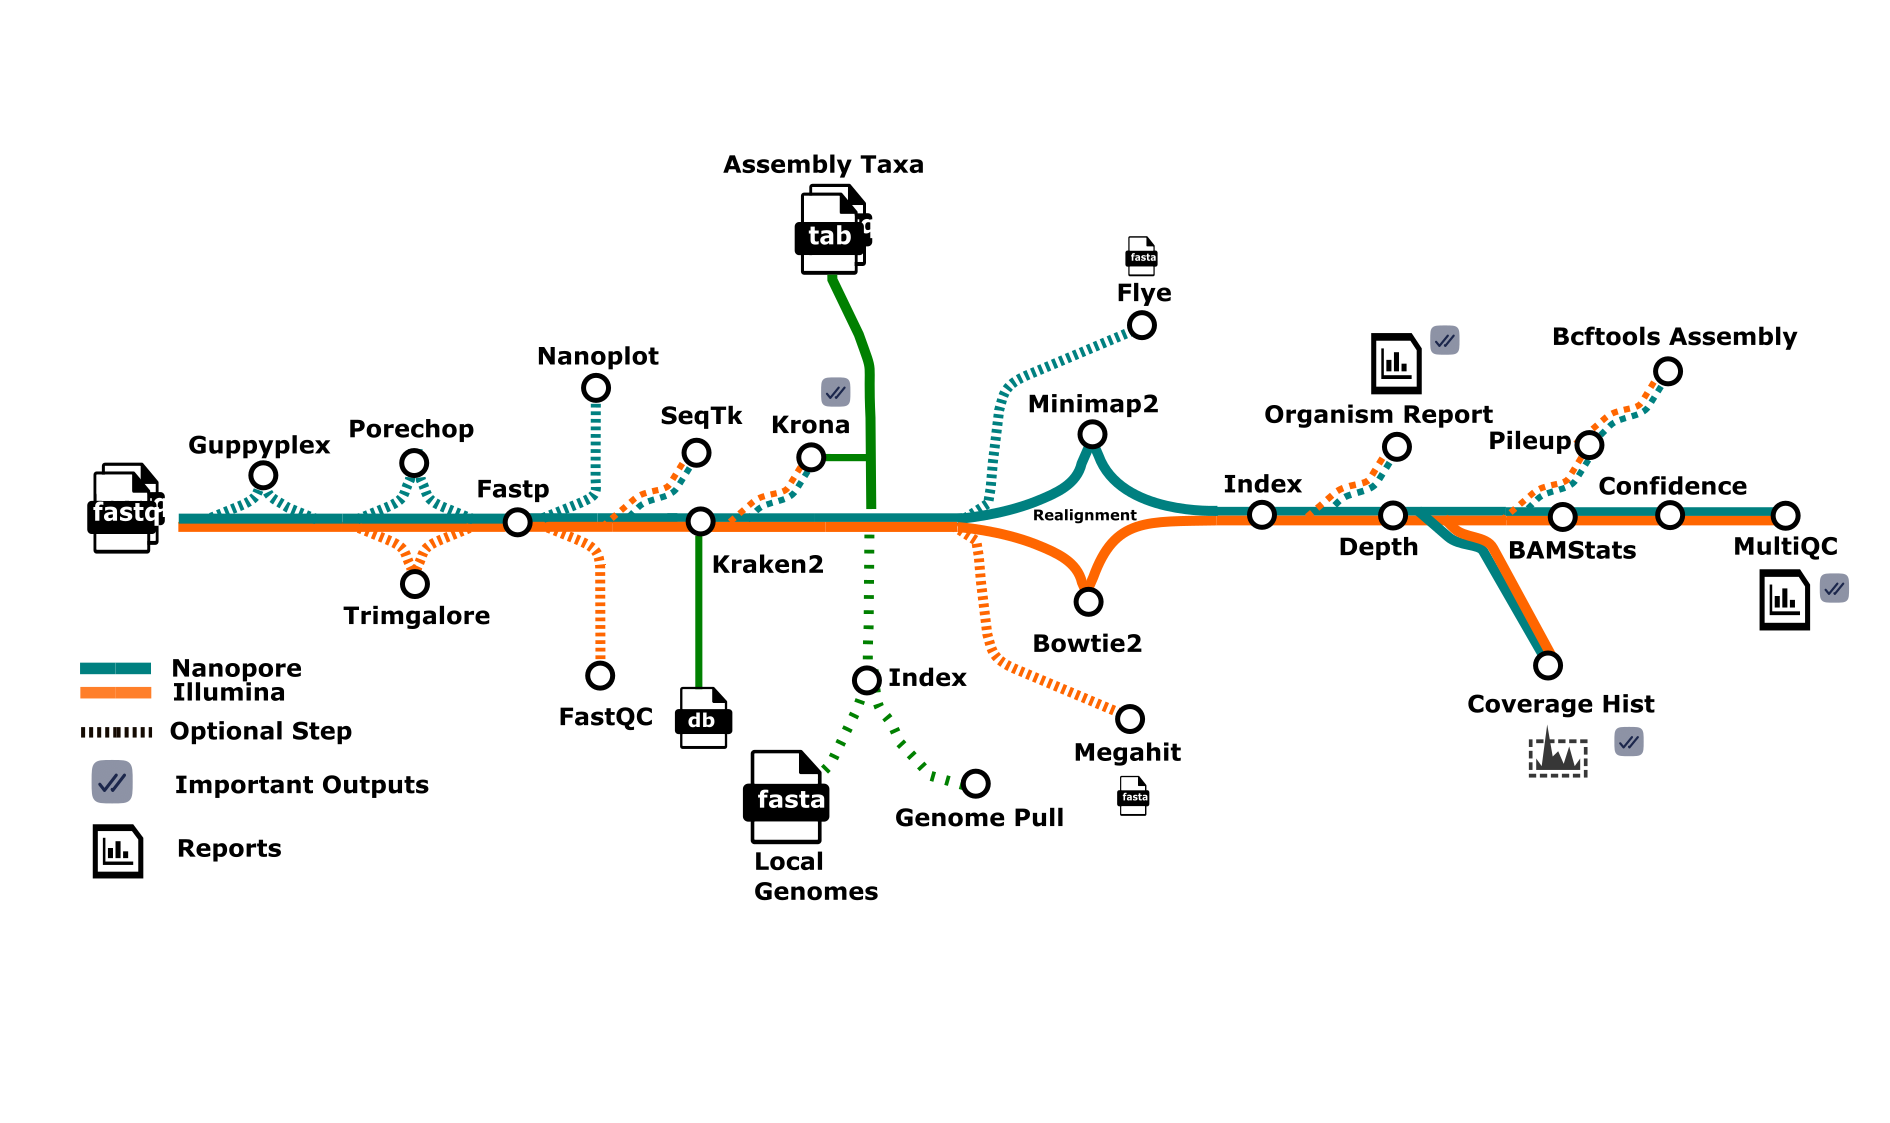
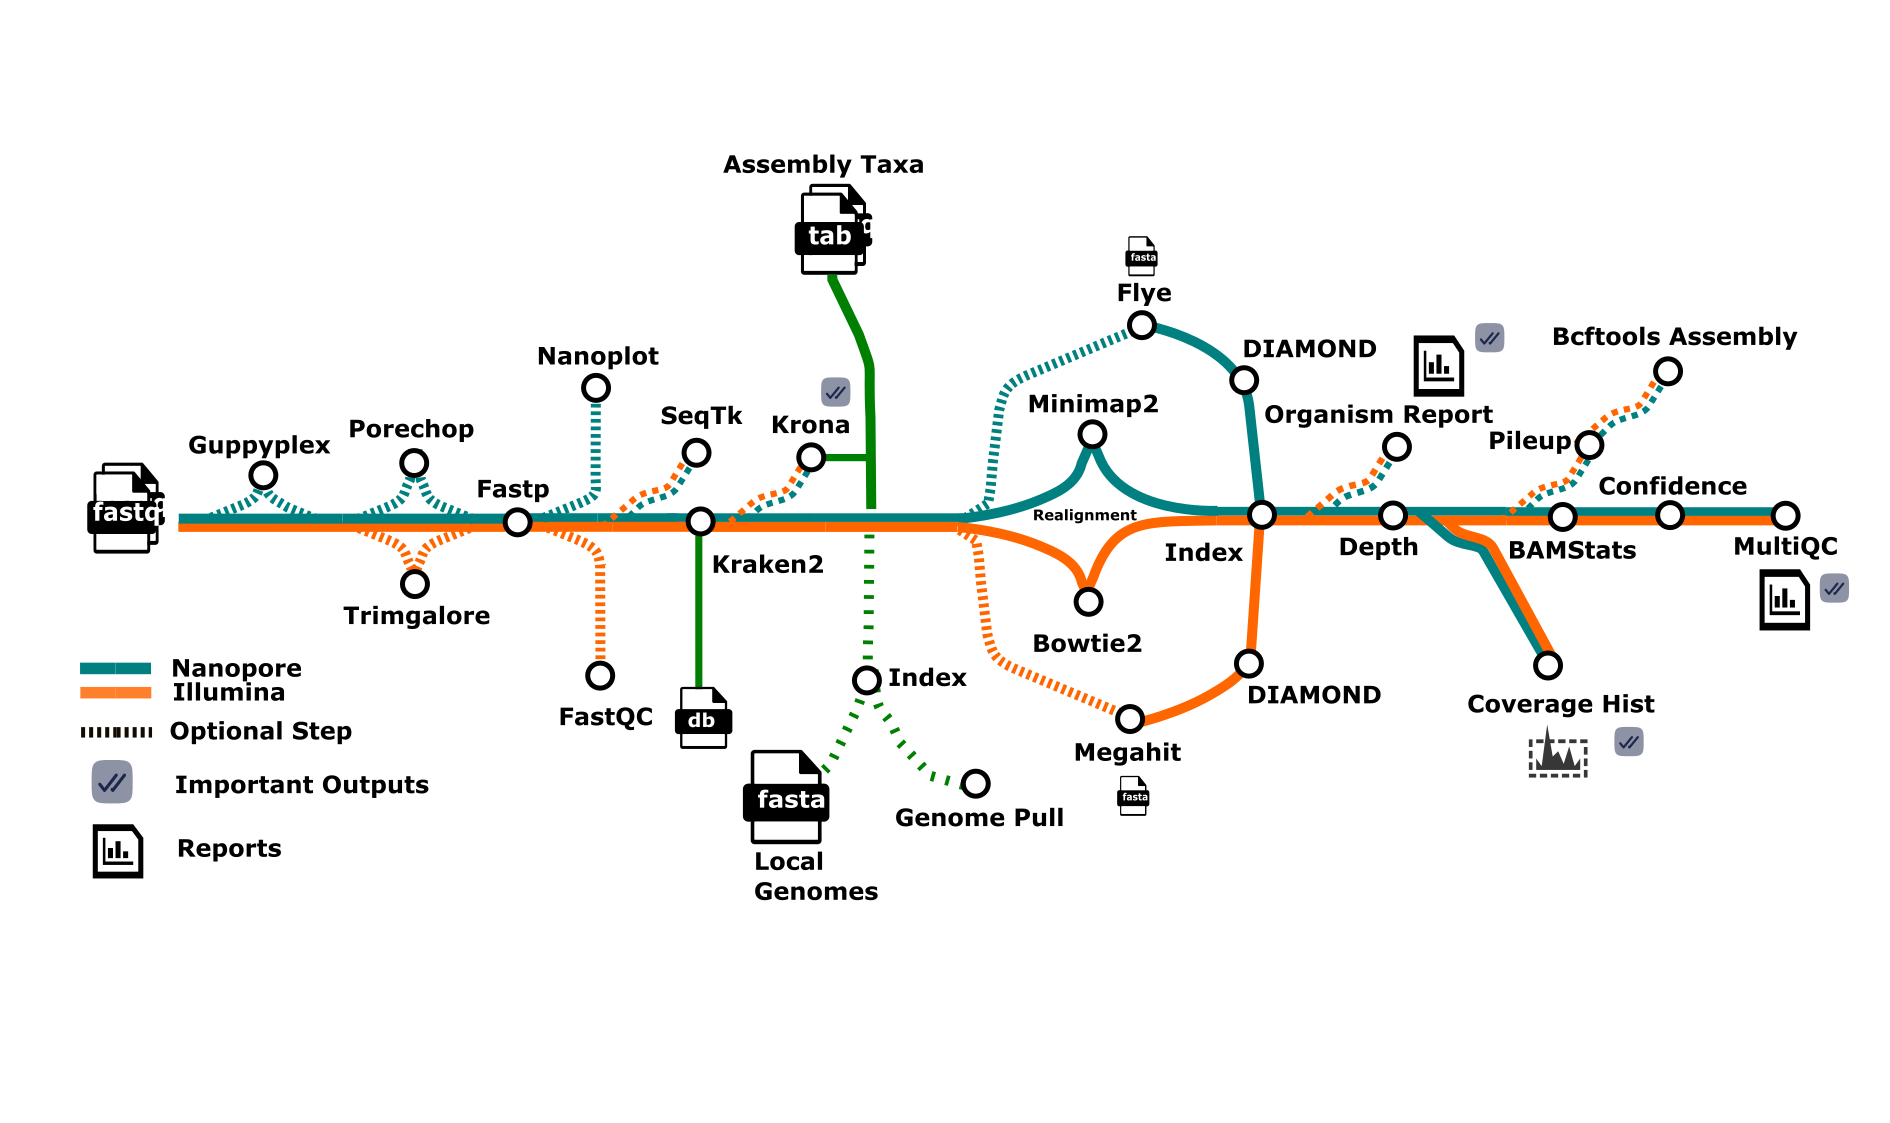
tmp

Changed region(s): [[0.5931, 0.2805, 0.8116, 0.6545]]

diff --git a/bin/create_report.py b/bin/create_report.py
@@ -105,22 +105,25 @@ def format_cell_content(cell):
 def import_data(inputfile ):
     # Load your TSV data into a DataFrame
     # tsv_data = """
-    # Name\tSample\tSample Type\t% Aligned\t% Total Reads\t# Aligned\tIsAnnotated\tPathogenic Sites\tType\tTaxid\tStatus\tGini Coefficient\tMeanBaseQ\tMeanMapQ\tBreadth of Coverage\tDepth of Coverage\tisSpecies\tAnnClass
-    # Staphylococcus aureus\tshortreads\tstool\t0.0008\t0.0008\t2\tYes\tstool\tCommensal\t1280\testablished\t0.4\t\t\t\t\tTrue\tNone
-    # Klebsiella pneumoniae\tshortreads\tstool\t0.002\t0.002\t20\tYes\t"abscess, stool, skin, urine"\tCommensal\t573\testablished\t0.23\t\t\t\t\tTrue\tDerived
-    # Dickeya fangzhongdai\tshortreads\tstool\t0.0002\t0.0002\t2\tYes\t\t\t1778540\tN/A\t0.95\t\t\t\t\tTrue\tDirect
-    # Pediococcus acidilactici\tlongreads\tnasal\t0.0005\t0.0005\t5\tNo\t\t\t1254\tN/A\t0.9\t\t\t\t\tTrue\tDerived
-    # Neisseria gonorrhoeae\tlongreads\tnasal\t0.0629\t0.0629\t120\tYes\t"blood, oral, stool, urine"\tPathogen\t485\testablished\t0.02\t\t\t\t\tTrue\tDirect
-    # Escherichia coli\tshortreads\tstool\t0.01\t0.01\t100\tNo\t\t\t93061\tN/A\t0.48\t\t\t\t\tTrue\tDerived
-    # Metabacillus litoralis\tshortreads\tstool\t0.08\t0.08\t800\tNo\t\t\t152268\tN/A\t0.80\t\t\t\t\tTrue\tDirect
-    # Fluviibacter phosphoraccumulans\tlongreads\tnasal\t0.0005\t0.0005\t5\tNo\t\t\t1751046\tN/A\t0.96\t\t\t\t\tTrue\tDirect
-    # Diaphorobacter ruginosibacter\tlongreads\tnasal\t0.00003\t0.00003\t1\tNo\t\t\t1715720\tN/A\t0.97\t\t\t\t\tTrue\tDerived
+    # Name\tSample\tSample Type\t% Reads\t% Aligned Reads\t# Aligned\tIsAnnotated\tPathogenic Sites\tType\tTaxid\tStatus\tGini Coefficient\tMean BaseQ\tMean MapQ\tMean Coverage\tMean Depth\tAnnClass\tisSpecies\tPathogenic Subsp/Strains
+    # Escherichia coli\tNasal Swab\tnasal\t100.0\t1.28\t22\tYes\tblood, urine\tCommensal\t562\testablished\t0.054\t14.0\t26.0\t2.59\t0.028\tDirect\tFalse\tCommensal Listing
+    # Salmonella enterica\tNasal Swab\tnasal\t24.13\t0.49\t7\tYes\tstool\tPrimary\t28901\testablished\t0.061\t14.0\t16.3\t1.63\t0.016\tDirect\tFalse\t
+    # Staphylococcus aureus\tNasal Swab\tnasal\t96.86\t52.39\t896\tYes\tblood\tCommensal\t1280\testablished\t0.63\t14.0\t59.0\t57.66\t0.85\tDirect\tFalse\tCommensal Listing
+    # Pseudomonas aeruginosa\tNasal Swab\tnasal\t0.32\t0.21\t3\tYes\tabscess, blood, urine\tPrimary\t287\testablished\t0.024\t14.0\t59.7\t1.86\t0.018\tDirect\tFalse\t
+    # Listeria monocytogenes\tNasal Swab\tnasal\t17.44\t11.52\t197\tYes\tblood, gut\tPrimary\t1639\testablished\t.87\t14.0\t52.4\t29.28\t0.35\tDirect\tFalse\t
+    # Bacillus subtilis\tNasal Swab\tnasal\t2.75\t1.87\t32\tYes\t\tCommensal\t1423\testablished\t0.055\t14.0\t18.1\t1.75\t0.021\tDirect\tFalse\tCommensal Listing
+    # Limosilactobacillus fermentum\tNasal Swab\tnasal\t15.88\t12.74\t218\tNo\t\tUnknown\t1613\t\t0.65\t14.0\t59.72\t66.56\t9.37\tNone\tTrue\t
+    # Enterococcus faecalis\tNasal Swab\tnasal\t6.44\t5.55\t95\tYes\tblood, urine\tOpportunistic\t1351\testablished\t0.53\t14.0\t60.0\t53.42\t2.19\tDirect\tFalse\t
+    # Saccharomyces cerevisiae\tNasal Swab\tnasal\t13.81\t13.81\t236\tNo\t\tPotential\t4932\t0.17\t13.97\t59.42\t13.099\t0.14\tDerived\tFalse\tS288C (0.1%)
+    # Staphylococcus aureus\tStool Sample\tgut\t100.0\t63.62\t1427\tYes\tblood\tCommensal\t1280\testablished\t0.083\t40.0\t15.33\t4.57\t0.047\tDirect\tFalse\tCommensal Listing
+    # Neisseria gonorrhoeae\tStool Sample\tgut\t36.15\t36.023\t808\tYes\tblood, urine\tPrimary\t485\testablished\t0.775\t40.0\t41.4\t4.55\t0.046\tDirect\tTrue\tTUM19854 (0.4%)
+    # Metabacillus litoralis\tStool Sample\tgut\t0.35\t0.35\t8\tNo\t\tUnknown\t152268\t\t0.0078\t40.0\t17.87\t0.61\t0.0061\tNone\tTrue\t
     # """.strip()
     # df = pd.read_csv(StringIO(tsv_data), sep='\t')
 
-    # # Simulating additional data
+    # # # Simulating additional data
     # np.random.seed(42)
-    # # df['Gini Coefficient'] = np.random.uniform(0, 1, df.shape[0])
+    # df['Gini Coefficient'] = np.random.uniform(0, 1, df.shape[0])
     # df['MeanBaseQ'] = np.random.uniform(20, 40, df.shape[0])
     # df['MeanMapQ'] = np.random.uniform(30, 60, df.shape[0])
     # df['Breadth of Coverage'] = np.random.uniform(50, 100, df.shape[0])
@@ -348,7 +351,7 @@ def create_report(
         )
         # Add the title and subtitle
 
-        title = Paragraph("Organism Discovery Analysis", title_style)
+        title = Paragraph("Organism Discovery Report", title_style)
         subtitle = Paragraph(f"This report was generated using TaxTriage <b>{version}</b> on <b>{date}</b> and is derived from an in development spreadsheet of human-host pathogens. It will likely change performance as a result of rapid development practices.", subtitle_style)
         elements.append(title)
         elements.append(subtitle)
@@ -503,6 +506,7 @@ def main():
     df_full = df_full.rename(columns={args.sitecol: 'body_site'})
     df_full = df_full.rename(columns={args.abundance_col: 'abundance'})
     df_full = df_full.dropna(subset=[args.type])
+    print(df_full.columns.values)
     # df_identified = df_identified[[args.type, 'body_site', 'abundance']]
     # convert all body_site with map
     df_full['body_site'] = df_full['body_site'].map(lambda x: body_site_map(x) )
